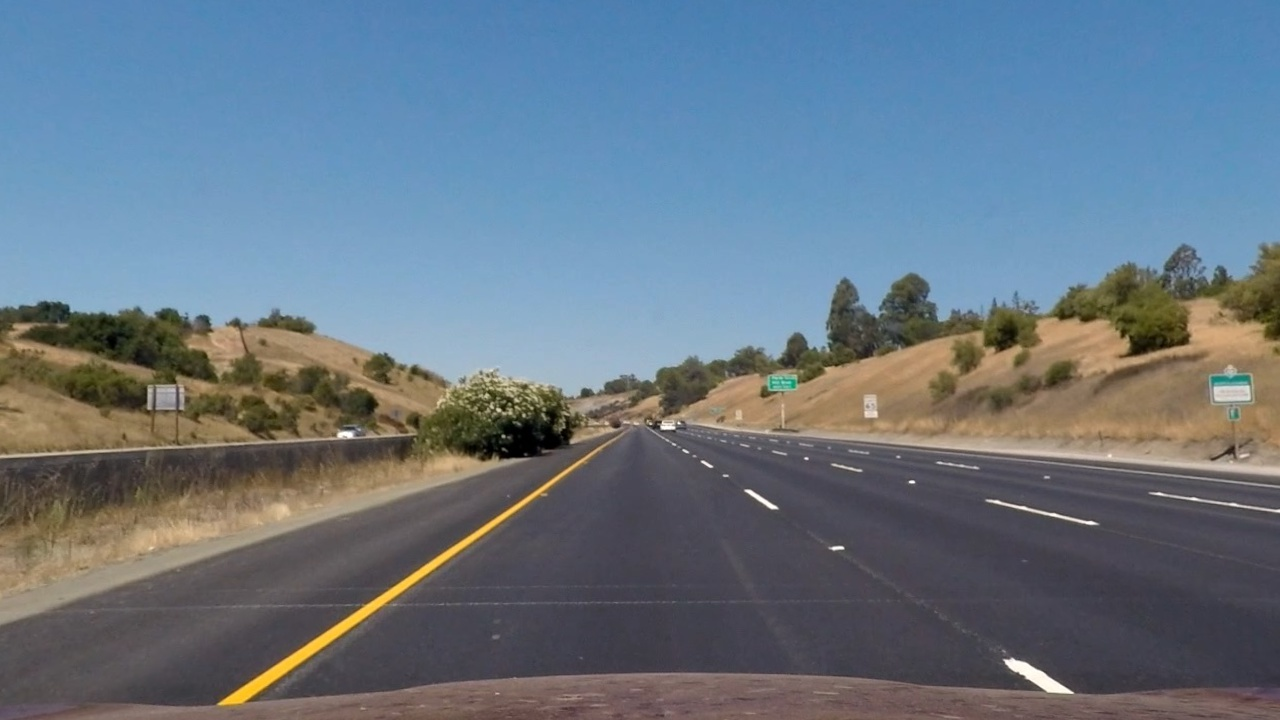
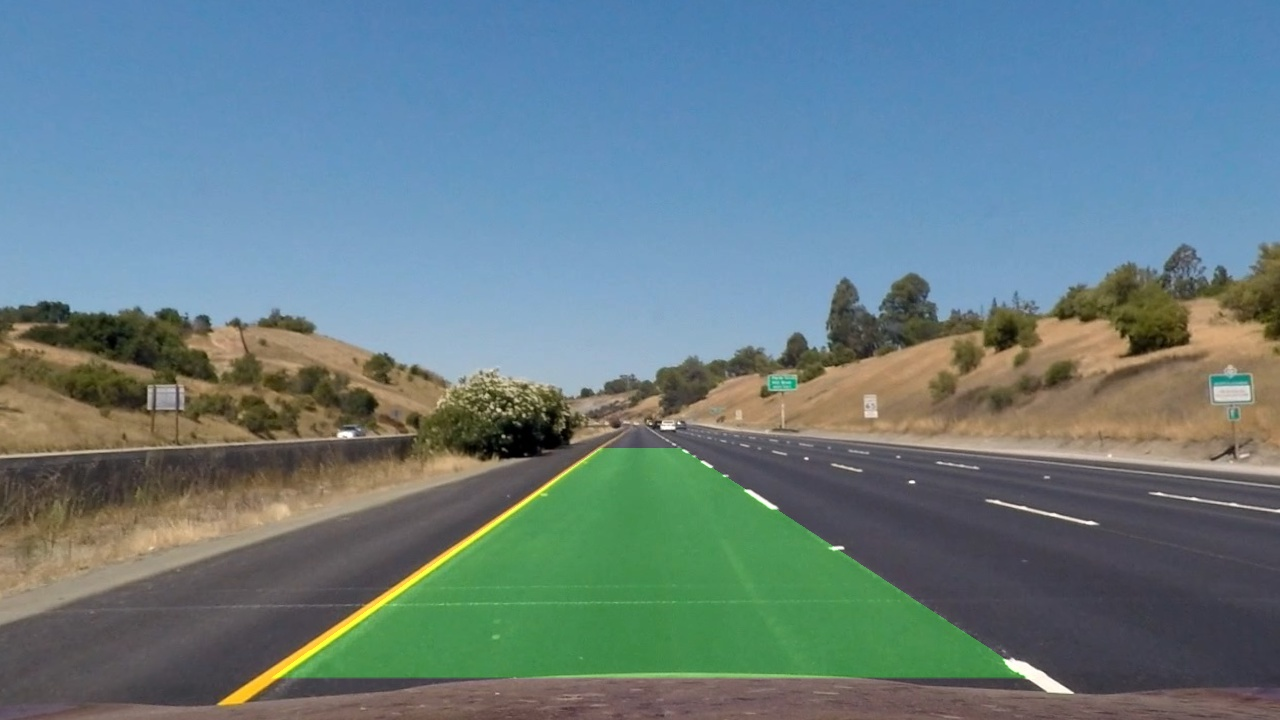
Lane drawn in test images

Changed region(s): [[0.2188, 0.6111, 0.8125, 0.9472]]

diff --git a/find_lanes.py b/find_lanes.py
@@ -125,32 +125,37 @@ def fit_lane_line_polynomials(binary_warped):
     ploty = np.linspace(0, binary_warped.shape[0]-1, binary_warped.shape[0] )
 
     # Fit a second order polynomial to each
-    #left_fit = np.polyfit(lefty, leftx, 2)
-    #right_fit = np.polyfit(righty, rightx, 2)
-    left_fit = np.polyfit(lefty*ym_per_pix, leftx*xm_per_pix, 2)
-    right_fit = np.polyfit(righty*ym_per_pix, rightx*xm_per_pix, 2)
+    left_fit = np.polyfit(lefty, leftx, 2)
+    right_fit = np.polyfit(righty, rightx, 2)
     
     # Generate x and y values for plotting
     left_fitx = left_fit[0]*ploty**2 + left_fit[1]*ploty + left_fit[2]
     right_fitx = right_fit[0]*ploty**2 + right_fit[1]*ploty + right_fit[2]
-
-    out_img[nonzeroy[left_lane_inds], nonzerox[left_lane_inds]] = [255, 0, 0]
-    out_img[nonzeroy[right_lane_inds], nonzerox[right_lane_inds]] = [0, 0, 255]
-    plt.imshow(out_img)
-    plt.plot(left_fitx, ploty, color='yellow')
-    plt.plot(right_fitx, ploty, color='yellow')
-    plt.xlim(0, 1280)
-    plt.ylim(720, 0)
-    plt.show()
     
-    return (left_fit, left_fitx, right_fit, right_fitx)
+    # Fit new polynomials to x,y in world space for curvature calculation
+    left_fit_cr = np.polyfit(lefty*ym_per_pix, leftx*xm_per_pix, 2)
+    right_fit_cr = np.polyfit(righty*ym_per_pix, rightx*xm_per_pix, 2)
 
-def radius_of_curvature(height, left_fit, right_fit):
+    #out_img[nonzeroy[left_lane_inds], nonzerox[left_lane_inds]] = [255, 0, 0]
+    #out_img[nonzeroy[right_lane_inds], nonzerox[right_lane_inds]] = [0, 0, 255]
+    #plt.imshow(out_img)
+    #plt.plot(left_fitx, ploty, color='yellow')
+    #plt.plot(right_fitx, ploty, color='yellow')
+    #plt.xlim(0, 1280)
+    #plt.ylim(720, 0)
+    #plt.show()
+    
+    return (left_fit_cr, left_fitx, right_fit_cr, right_fitx)
+
+def radius_of_curvature(height, left_fit_cr, right_fit_cr):
     # Define y-value where we want radius of curvature
     # I'll choose the maximum y-value, corresponding to the bottom of the image
     y_eval = height
-    left_curverad = ((1 + (2*left_fit[0]*y_eval*ym_per_pix + left_fit[1])**2)**1.5) / np.absolute(2*left_fit[0])
-    right_curverad = ((1 + (2*right_fit[0]*y_eval*ym_per_pix + right_fit[1])**2)**1.5) / np.absolute(2*right_fit[0])
+    left_curverad = ((1 + (2*left_fit_cr[0]*y_eval + left_fit_cr[1])**2)**1.5) / np.absolute(2*left_fit_cr[0])
+    right_curverad = ((1 + (2*right_fit_cr[0]*y_eval + right_fit_cr[1])**2)**1.5) / np.absolute(2*right_fit_cr[0])
+
+    #left_curverad = ((1 + (2*left_fit[0]*y_eval*ym_per_pix + left_fit[1])**2)**1.5) / np.absolute(2*left_fit[0])
+    #right_curverad = ((1 + (2*right_fit[0]*y_eval*ym_per_pix + right_fit[1])**2)**1.5) / np.absolute(2*right_fit[0])
 
     return (left_curverad, right_curverad)
 
@@ -210,16 +215,17 @@ def process_image(original_image):
     warped_binary = cv2.warpPerspective(combined_binary, pespective_transformation_matrix, (1280,720), flags=cv2.INTER_LINEAR)
     
     # Detect lane pixels and fit to find the lane boundary.
-    left_fit, left_fitx, right_fit, right_fitx = fit_lane_line_polynomials(warped_binary)
+    left_fit_cr, left_fitx, right_fit_cr, right_fitx = fit_lane_line_polynomials(warped_binary)
     
     # Determine the curvature of the lane and vehicle position with respect to center.
-    left_curverad, right_curverad = radius_of_curvature(warped_binary.shape[0], left_fit, right_fit)
+    left_curverad, right_curverad = radius_of_curvature(warped_binary.shape[0], left_fit_cr, right_fit_cr)
 
     # Warp the detected lane boundaries back onto the original image.
     final = draw_lines_on_undistorted(image, warped_binary, left_fitx, right_fitx, undistorted)
     
     # TODO - Output visual display of the lane boundaries and numerical estimation of lane curvature and vehicle position.
-
+    print(left_curverad, 'm', right_curverad, 'm')
+    
     return final
 
 # run image processing on test images
